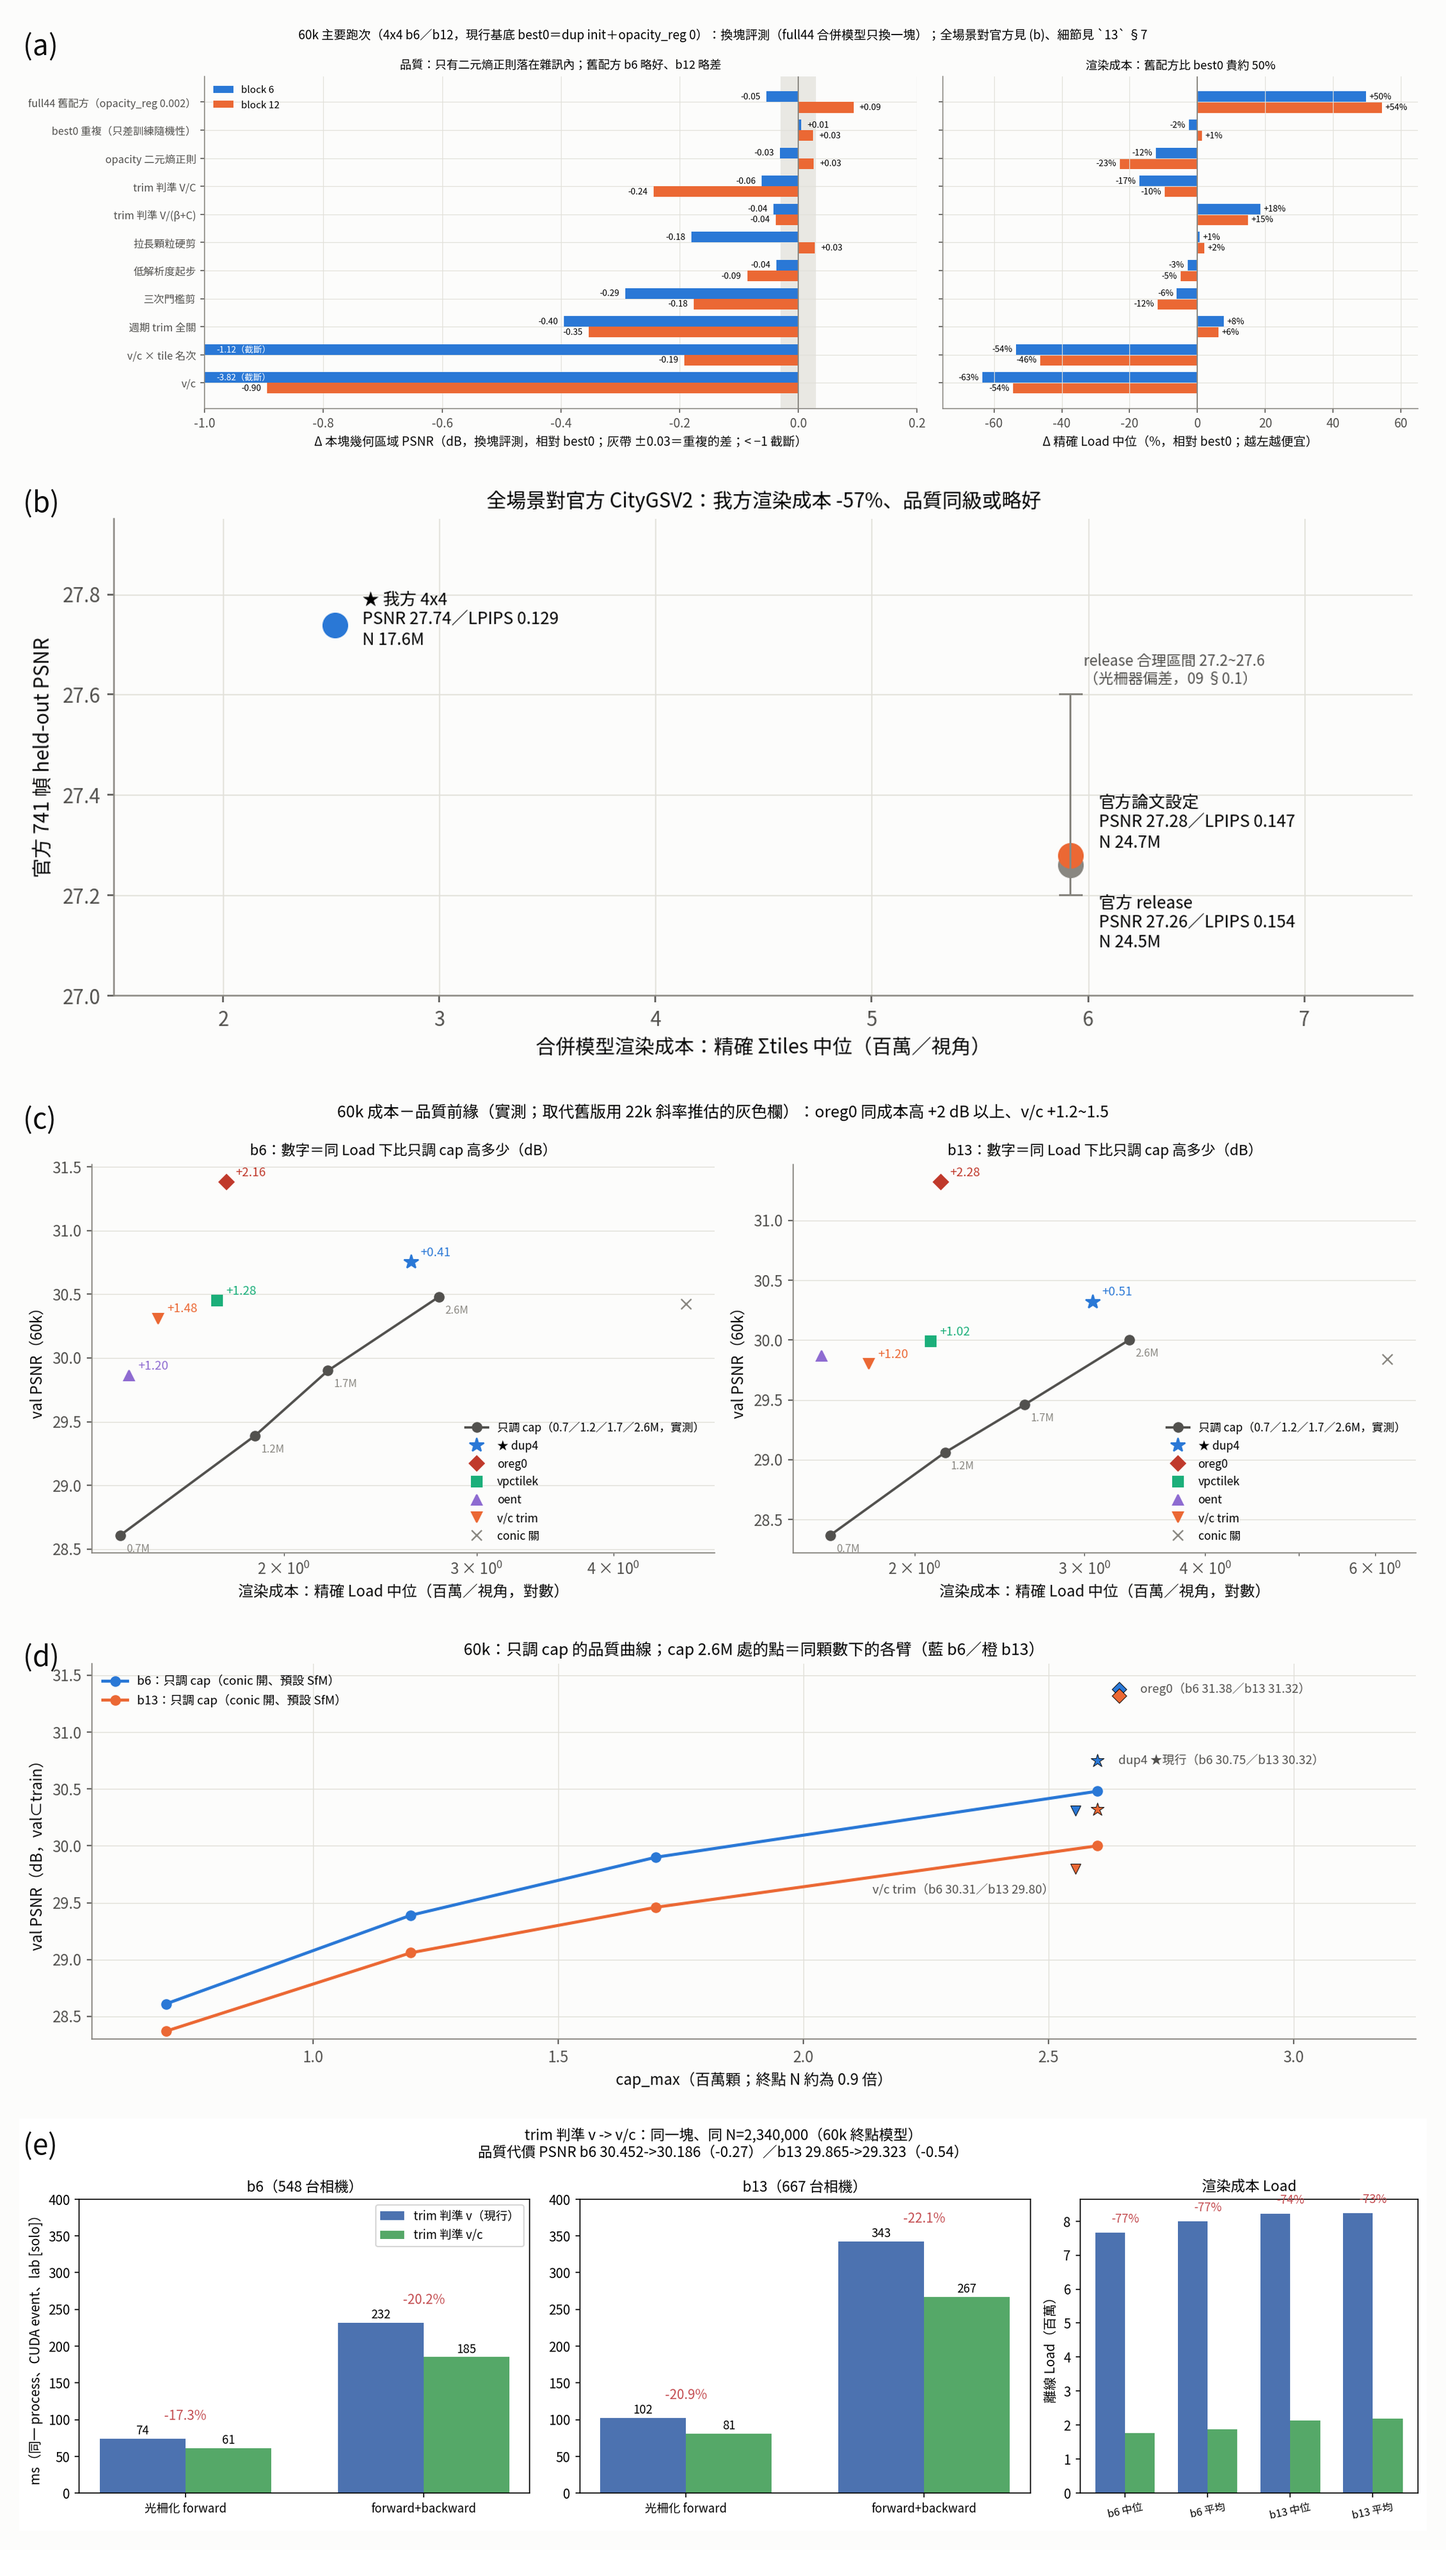
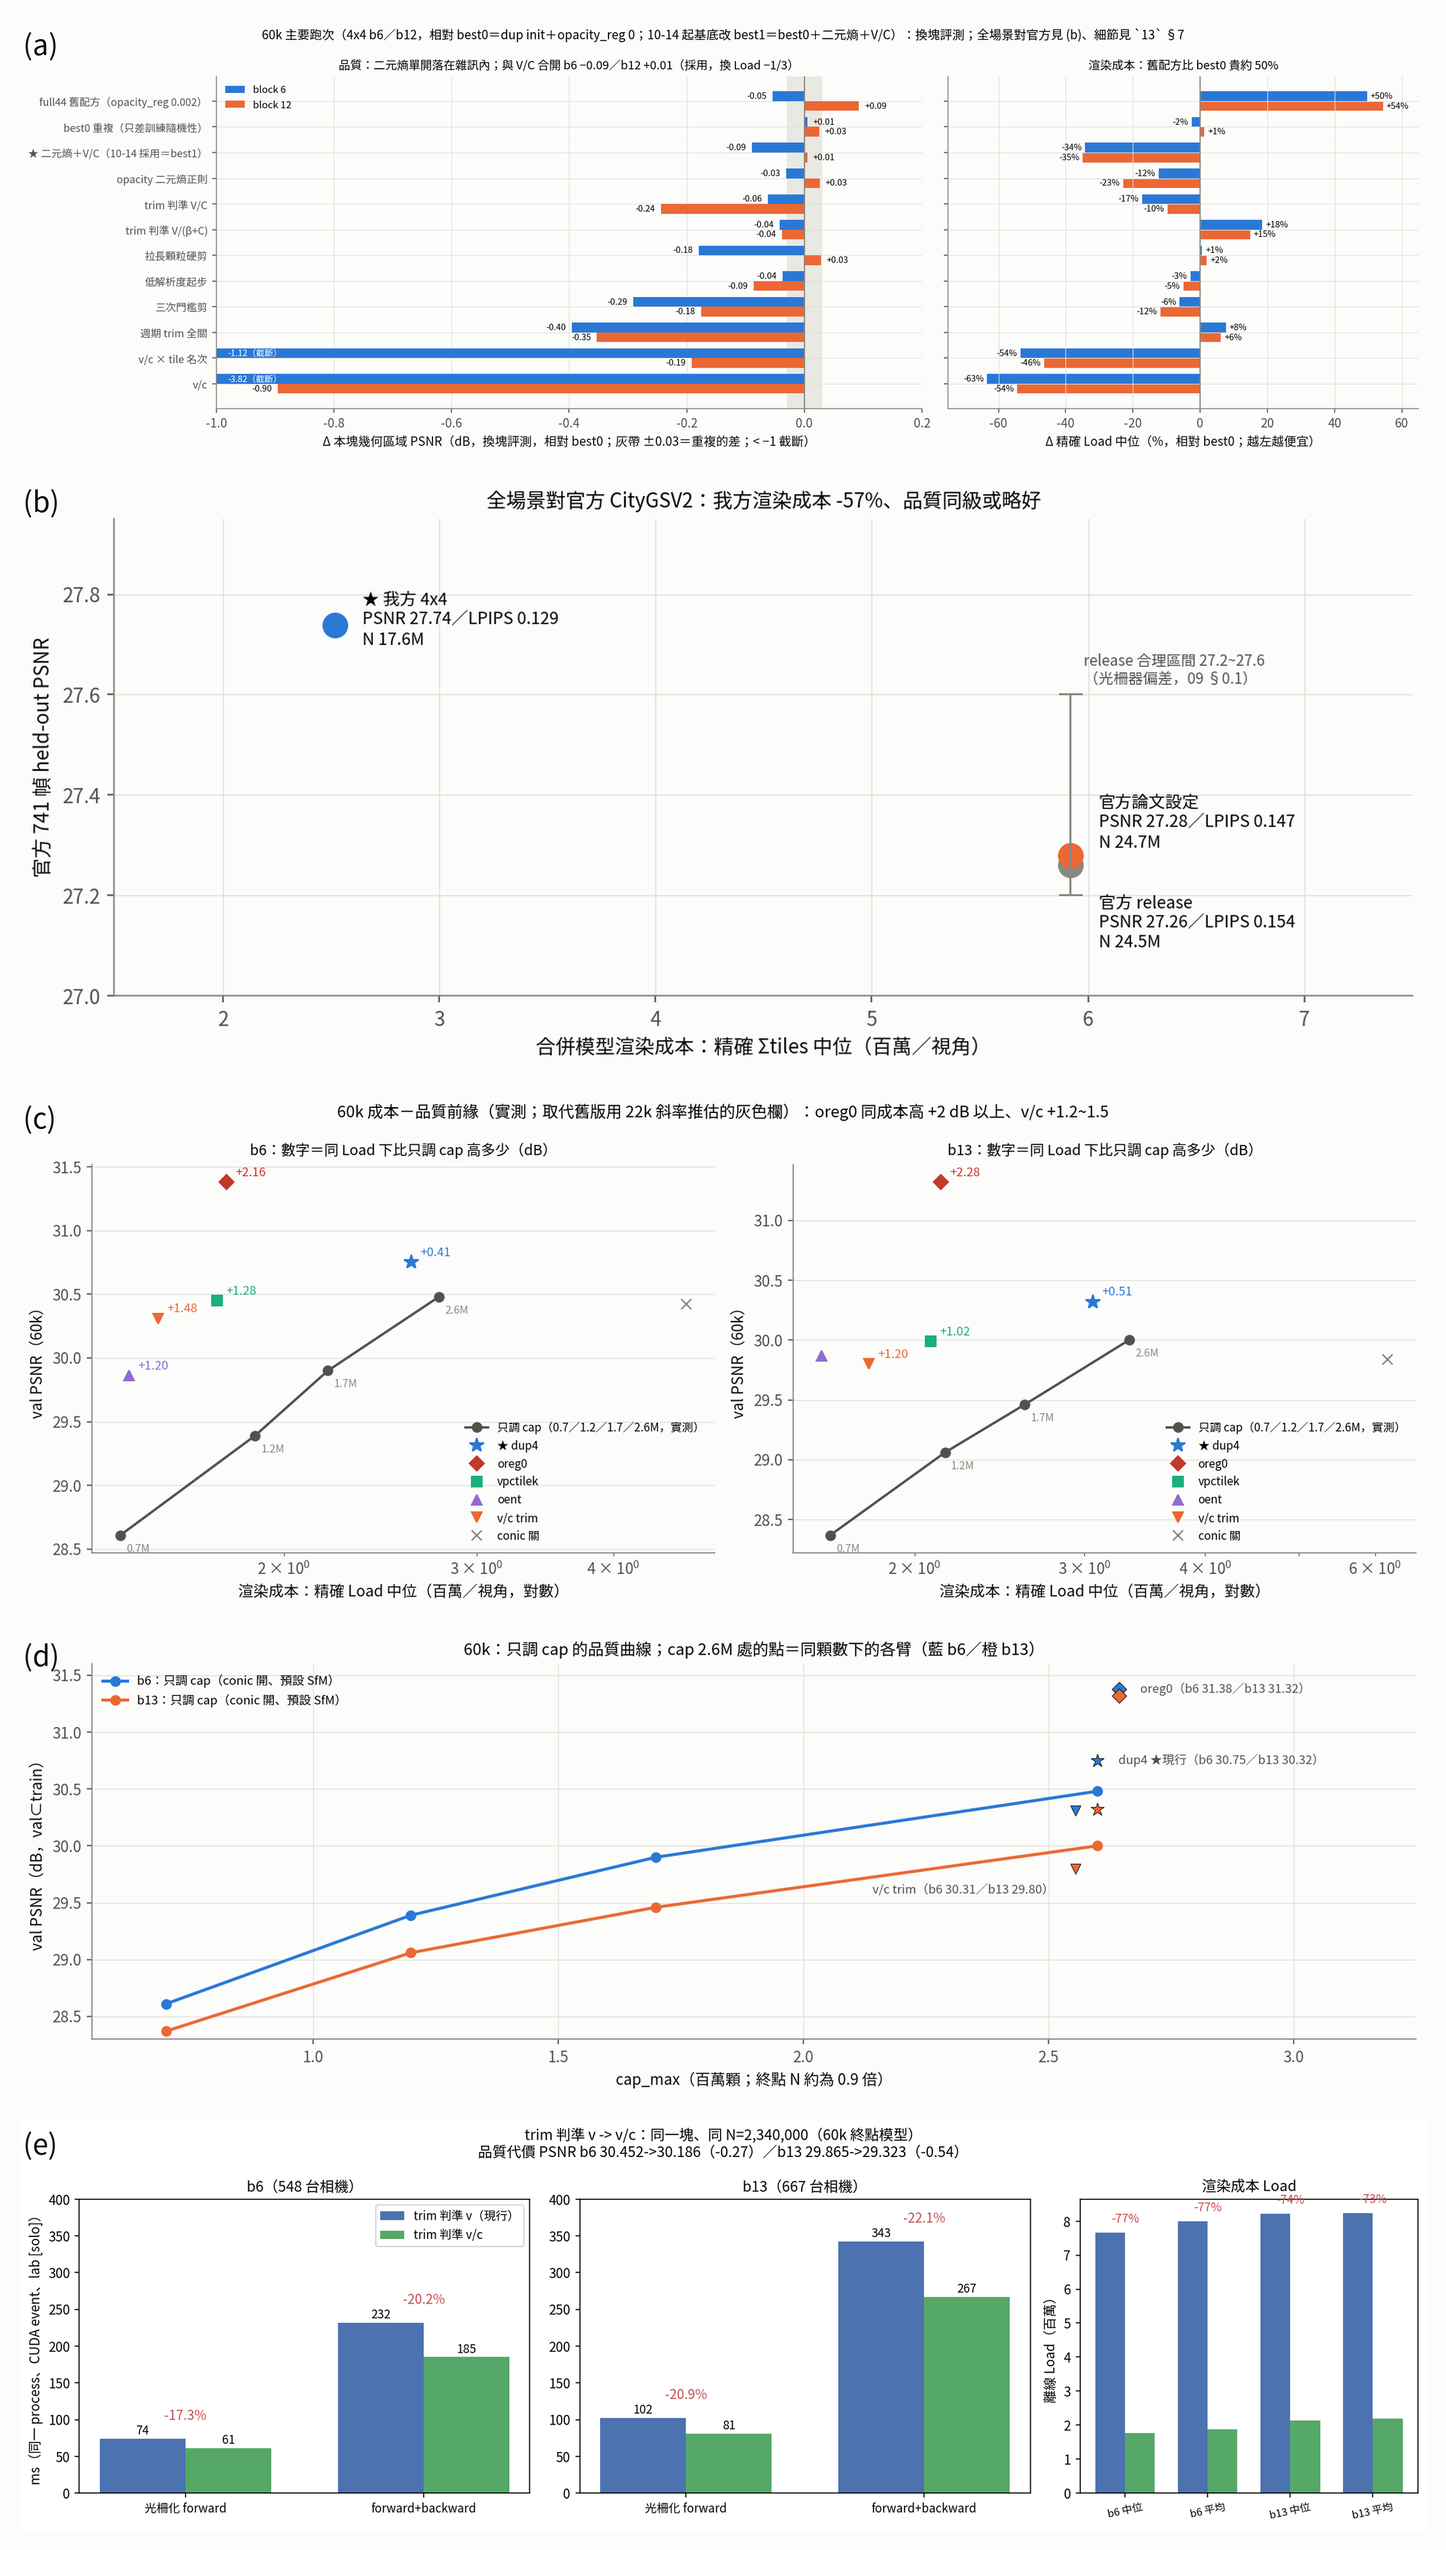
採用 best1（best0＋二元熵＋V/C）；ADMM P1 結果寫入 14 §9；13 §7、05(a)、13(d) 加入合開結果
Claude-Session: https://claude.ai/code/session_01ASvjmyPMC4F37W41o8s8Aq

Changed region(s): [[0.031, 0.0, 0.5885, 0.1867], [0.6504, 0.0, 0.9602, 0.1867], [0.8673, 0.1556, 0.8982, 0.1867]]

diff --git a/tools/plot_analysis.py b/tools/plot_analysis.py
@@ -842,10 +842,12 @@ def n13_swap(d):
         "拉長顆粒硬剪": (-0.180, 0.028, 0.6, 2.0),
         "V/C（總貢獻÷覆蓋像素）": (-0.062, -0.244, -17.2, -9.7),
         "V/(β+C)，β=55": (-0.042, -0.038, 18.5, 14.9),
+        "★ 二元熵＋V/C（10-14 採用＝best1）": (-0.089, 0.005, -34.2, -34.9),
     }
     off = {"v/c（訓練期判準）": (-3.817, -0.895, -63.4, -54.4), "v/c×名次＋二元熵": (-3.350, -0.927, -65.1, -61.1)}
     fig, ax = plt.subplots(figsize=(11, 4.6))
-    cols = {"V/C（總貢獻÷覆蓋像素）": C3, "V/(β+C)，β=55": C4, "opacity 二元熵正則": C2, "best0 重複（fast，渲染逐位元同）": MUTED}
+    cols = {"V/C（總貢獻÷覆蓋像素）": C3, "V/(β+C)，β=55": C4, "opacity 二元熵正則": C2, "best0 重複（fast，渲染逐位元同）": MUTED,
+            "★ 二元熵＋V/C（10-14 採用＝best1）": "#123f7a"}
     for k, (a6, a12, l6, l12) in R.items():
         x, y = (l6 + l12) / 2, (a6 + a12) / 2
         c = cols.get(k, C1)
@@ -956,6 +958,7 @@ def n05_main4x4(d):
     """4x4 主要跑次（相對現行 best0）：換塊評測的本塊幾何區域 PSNR、精確 Load（取代 5x5 舊版 05(a)）。"""
     R = [("full44 舊配方（opacity_reg 0.002）", -0.054, 0.093, 49.7, 54.4),
          ("best0 重複（只差訓練隨機性）", 0.005, 0.025, -2.5, 1.3),
+         ("★ 二元熵＋V/C（10-14 採用＝best1）", -0.089, 0.005, -34.2, -34.9),
          ("opacity 二元熵正則", -0.031, 0.026, -12.3, -22.9),
          ("trim 判準 V/C", -0.062, -0.244, -17.2, -9.7),
          ("trim 判準 V/(β+C)", -0.042, -0.038, 18.5, 14.9),
@@ -980,7 +983,7 @@ def n05_main4x4(d):
     ax.axvline(0, color=MUTED, lw=1); ax.set_yticks(y); ax.set_yticklabels([r[0] for r in R], fontsize=8.5); ax.invert_yaxis()
     ax.set_xlim(-1.0, 0.2); ax.legend(fontsize=8, loc="upper left")
     ax.set_xlabel("Δ 本塊幾何區域 PSNR（dB，換塊評測，相對 best0；灰帶 ±0.03＝重複的差；< −1 截斷）")
-    ax.set_title("品質：只有二元熵正則落在雜訊內；舊配方 b6 略好、b12 略差", fontsize=9.5)
+    ax.set_title("品質：二元熵單開落在雜訊內；與 V/C 合開 b6 −0.09／b12 +0.01（採用，換 Load −1/3）", fontsize=9.5)
     ax = axs[1]
     ax.barh(y - h / 2, [r[3] for r in R], h, color=C1); ax.barh(y + h / 2, [r[4] for r in R], h, color=C2)
     for i, r in enumerate(R):
@@ -988,7 +991,7 @@ def n05_main4x4(d):
             ax.text(v + (1 if v >= 0 else -1), i + off, f"{v:+.0f}%", va="center", ha="left" if v >= 0 else "right", fontsize=7)
     ax.axvline(0, color=MUTED, lw=1); ax.set_yticks(y); ax.set_yticklabels([]); ax.invert_yaxis(); ax.set_xlim(-75, 65)
     ax.set_xlabel("Δ 精確 Load 中位（%，相對 best0；越左越便宜）"); ax.set_title("渲染成本：舊配方比 best0 貴約 50%", fontsize=9.5)
-    fig.suptitle("60k 主要跑次（4x4 b6／b12，現行基底 best0＝dup init＋opacity_reg 0）：換塊評測（full44 合併模型只換一塊）；"
+    fig.suptitle("60k 主要跑次（4x4 b6／b12，相對 best0＝dup init＋opacity_reg 0；10-14 起基底改 best1＝best0＋二元熵＋V/C）：換塊評測；"
                  "全場景對官方見 (b)、細節見 `13` §7", fontsize=10)
     save(fig, d, "n05_main4x4.png")
 

diff --git a/紀錄/實驗分析/13_trim判準與opacity熵的負交互.md b/紀錄/實驗分析/13_trim判準與opacity熵的負交互.md
@@ -1,7 +1,7 @@
 # 13 「v/c × tile 名次 trim」與「opacity 二元熵正則」的負交互
 
 > **圖**：`13_trim判準與opacity熵的負交互.png`（同名，3 個面板）　｜　**年代**：新年代（4x4、best0 基底、60k）　｜　**日期**：2026-10-12
-> **狀態**：機制已查明（結構統計）；離線判別式比賽完成（§6）；4x4 訓練＋換塊評測完成（§7）：V/C 是取捨不是白賺、β 版成本反而高 => 都不改預設
+> **狀態**：機制已查明（結構統計）；離線判別式比賽完成（§6）；4x4 訓練＋換塊評測完成（§7）；**10-14 使用者採用「二元熵＋V/C 合開」為新基底 best1**
 > **資料**：lab `outputs/lab/g44_best0{,vt,oe,vo}` b6／b12 的 60k ckpt 與 `chart_data`；結構統計腳本 `labrun/struct_cmp.py`、`labrun/speck.py`（2026-10-12）
 > **相關**：`05`（成本－品質前緣）、`06`（事後剪枝）、`研究總覽.md` §0／§11、記憶 `out_of_block_eval_bias`
 > **離線比賽**：`tools/discriminant_race.py`，結果 CSV 在 `紀錄/實驗分析/data/discriminant_race/`（本機，不進 git）；重現 `python tools/plot_analysis.py`
@@ -160,6 +160,7 @@ Load＝單塊模型在全部訓練相機上的精確 Σtiles 中位（`chart_dat
 | v/c × tile 名次 | −1.12／−0.19 | −54%／−46% | 3.87／3.85 | 退役 |
 | v/c×名次＋二元熵 | −3.35／−0.93 | −65%／−61% | 3.86／3.83 | 退役（負交互，§3） |
 | **opacity 二元熵正則** | −0.03／+0.03 | **−12%／−23%** | 3.94／3.91 | ★ 唯一「同品質、省成本」 |
+| **★ 二元熵＋V/C 合開（10-14 採用＝best1）** | −0.09／+0.01 | **−34%／−35%** | 3.91／3.90 | ★ 採用：兩者省的 Load 相加、沒有崩潰 |
 | 週期 trim 全關 | −0.40／−0.35 | +8%／+6% | 3.93／3.90 | trim 有用 |
 | 三次門檻剪 | −0.29／−0.18 | −6%／−12% | 3.84／3.85 | 不採用 |
 | 拉長顆粒硬剪 | −0.18／+0.03 | +1%／+2% | 3.98／3.97 | 不採用 |
@@ -171,7 +172,11 @@ Load＝單塊模型在全部訓練相機上的精確 Σtiles 中位（`chart_dat
   現行 v 大致在膝點附近，三者沒有誰支配誰。
 - **opacity 二元熵正則在換塊評測下品質打平、Load −12%／−23%**：單塊評分（val −0.39／−0.89、塊內 held-out −0.68／+0.40）低估了它 —— 又一個被單塊尺錯殺的例子（記憶 `out_of_block_eval_bias`）。
   它與 v/c 的負交互來自 v/c 保護微小顆粒（§3）；V/C 不保護微小顆粒（首次觸發時被剪的微小顆粒比例與 v 相同：7.4% vs 8.0%、13.8% vs 16.8%），
-  所以「二元熵＋V/C」可能不會重現崩潰 —— 未測。
+  所以「二元熵＋V/C」可能不會重現崩潰 —— **10-14 已測：沒有崩潰**（`logs/swap_b6_1014_1133.log`、`swap_b12_1014_1219.log`）：
+  相對 best0 幾何區域 b6 −0.09（超出雜訊帶 ±0.03）／b12 +0.01（平手），精確 Load b6 1.893 → 1.246M（−34%）、b12 1.859 → 1.210M（−35%），
+  峰值 3.91／3.90 GB；盒內顆粒 b6 43.5 萬／b12 64.1 萬（best0 63.6／81.2 萬）。兩個機制省的 Load 幾乎直接相加（−12−17 ≈ −34；−23−10 ≈ −35）。
+  => **使用者 10-14 採用為新基底 best1**（`scripts/lab/task_cmp.sh` 的 best1* 前綴；best1 本身＝`g44_best0oeVC`）。
+  ⚠ 合開時的 it/s／FPS 不可用（同卡外部佔用）；V/(β+C) 臂未與二元熵合開測過。
 
 ## 5. 限制
 

diff --git a/CLAUDE.md b/CLAUDE.md
@@ -36,8 +36,9 @@ tests), so every run's time and VRAM numbers are directly usable. Lab runs befor
 parallel => their wall-time / reserved-VRAM columns are not comparable across that boundary (quality and peak allocated are).**
 **Grid protocol (user, 2026-10-10): all new runs use the 4x4 grid (`CITYGS_GRID=44 ... CITYGS_FAMILY=g44_ bash scripts/lab/task_cmp.sh <blk> <arm>`),
 same grid cells as the official CityGSV2 4x4, so every block compares against the official per-block models. Single-variable arms run on
-4x4 blocks 6 and 12; the 4x4 per-block reference without oreg0 is `outputs/lab/full44_best/blocks/block_<B>`. Base recipe since 10-10 =
-`best0` (dup init + opacity_reg 0; coreg0 beat opacity_reg 0.002 by +0.90/+1.32 dB val on 5x5 b6/b13).**
+4x4 blocks 6 and 12; the 4x4 per-block reference without oreg0 is `outputs/lab/full44_best/blocks/block_<B>`. Base recipe since 10-14 =
+`best1` = best0 (dup init + opacity_reg 0) + opacity binary-entropy reg 0.002 + trim criterion V/C (`task_cmp.sh` prefix `best1*`;
+reference run `g44_best0oeVC`): swap eval vs best0 -0.09/+0.01 dB, exact Load -34%/-35% (`紀錄/實驗分析/13` §7). Before 10-14 the base was `best0`.**
 **Two-machine protocol (user, 2026-09-18): lab = relative comparison (which recipe is better, lab vs lab), kept at
 3 parallel slots because throughput is ~2x and parallelism does NOT affect results — quality, offline Load and peak
 VRAM are all neighbour-independent (only wall time and it/s are, and those have dedicated `[solo]` tools).
